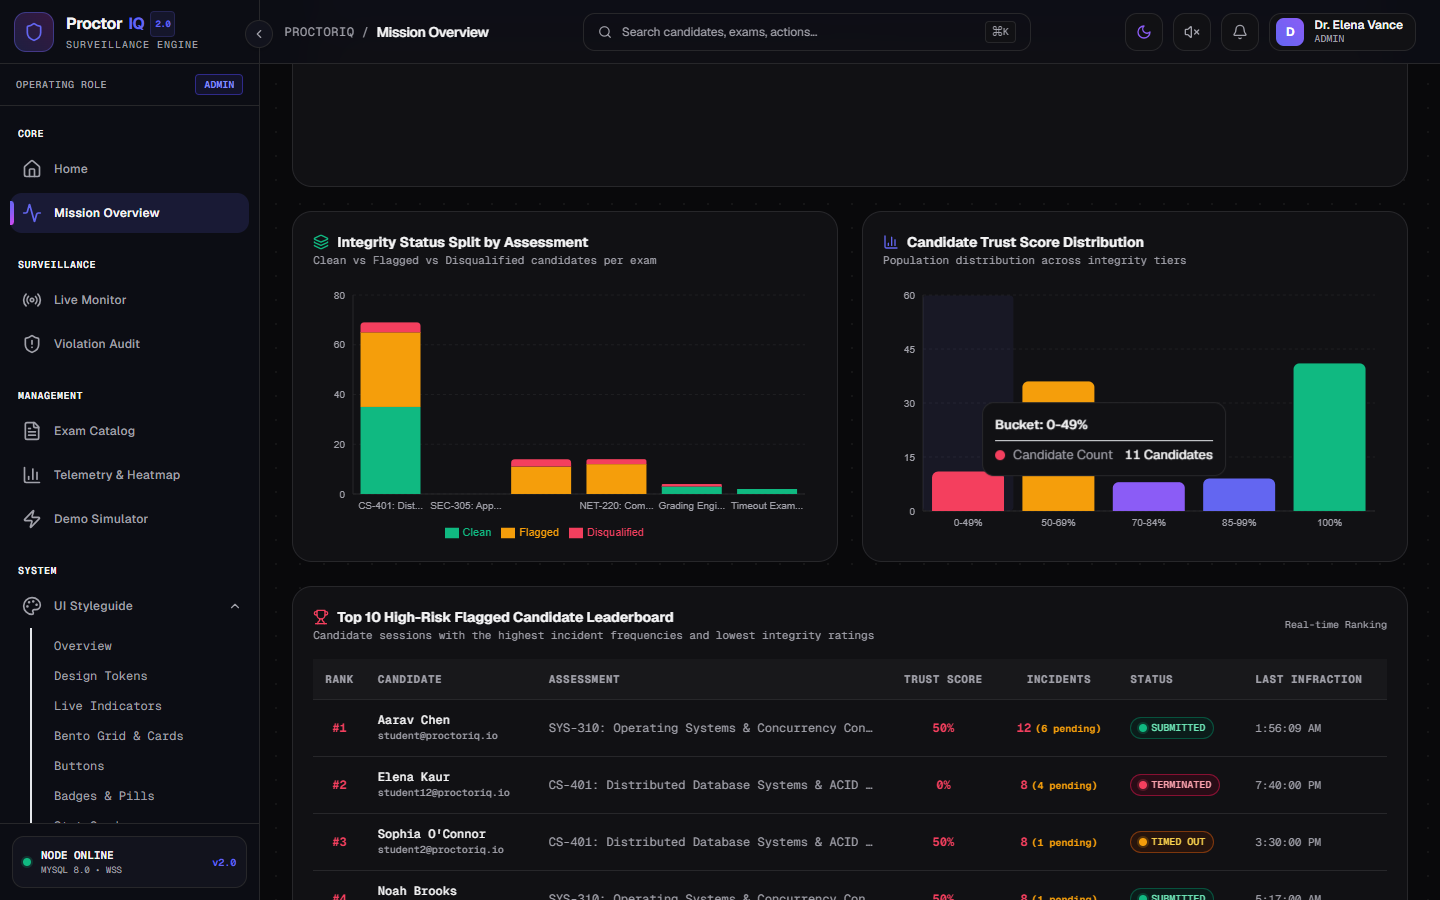
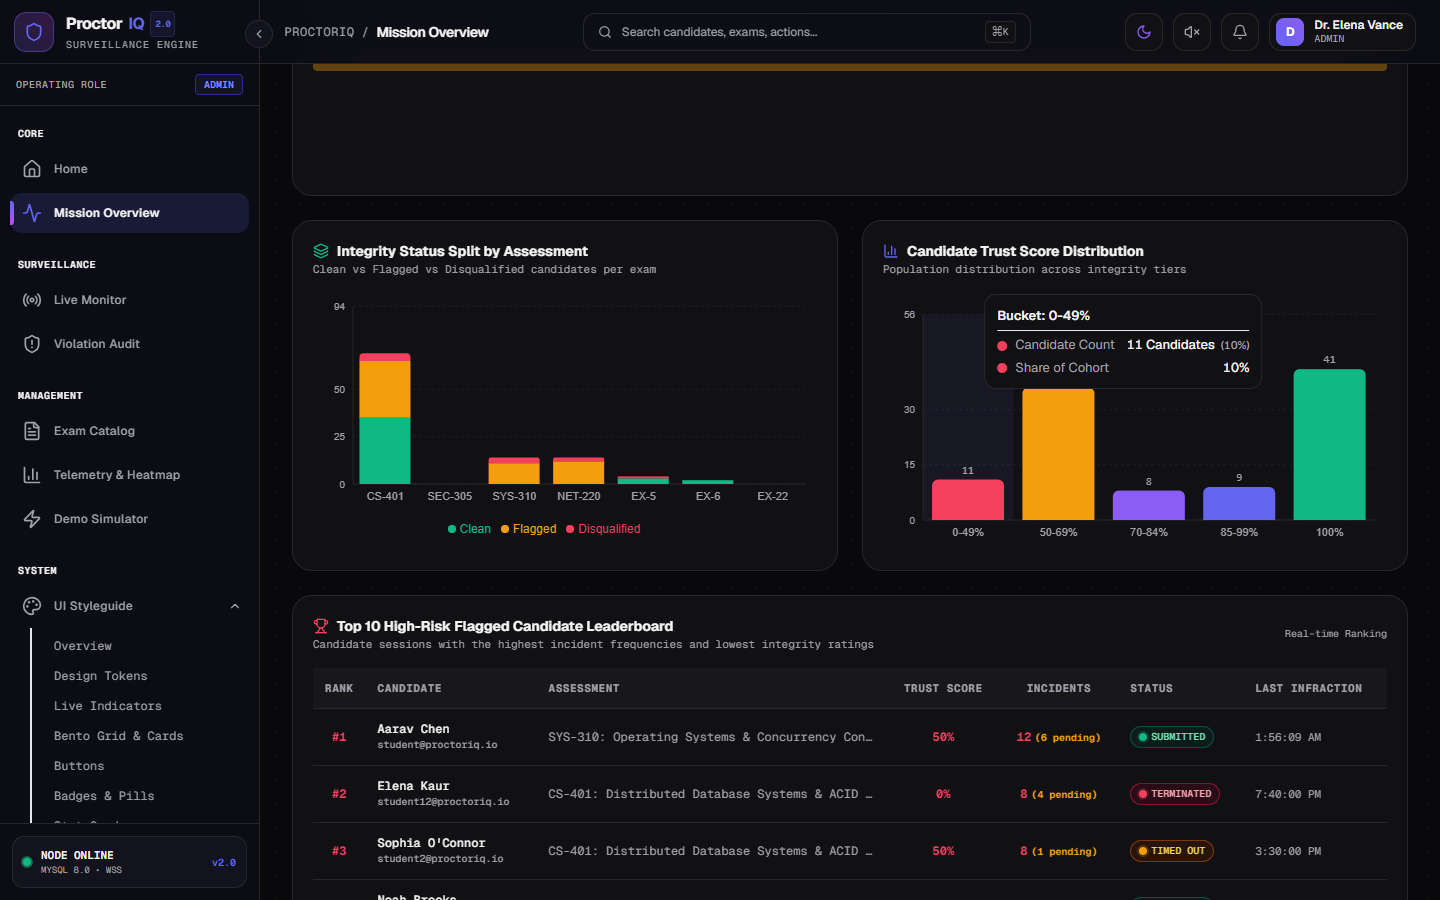
fix(charts): integrity split and histogram

diff --git a/client/src/components/admin/AdminOverviewDashboard.tsx b/client/src/components/admin/AdminOverviewDashboard.tsx
@@ -26,6 +26,7 @@ import {
   ResponsiveContainer,
   Legend,
   CartesianGrid,
+  LabelList,
 } from 'recharts';
 import { StatCard } from '../ui/StatCard';
 import { StatusPill } from '../ui/StatusPill';
@@ -58,6 +59,7 @@ interface DashboardData {
   integritySplit: Array<{
     exam_id: number;
     exam_title: string;
+    subject_code?: string;
     clean_count: number;
     flagged_count: number;
     disqualified_count: number;
@@ -158,6 +160,27 @@ export function AdminOverviewDashboard() {
     cheatingRate: 7.5,
   };
 
+  // Format Integrity Status Split with subject_code fallback
+  const integritySplitData = (data?.integritySplit ?? []).map((item) => {
+    const clean = Number(item.clean_count || 0);
+    const flagged = Number(item.flagged_count || 0);
+    const disqualified = Number(item.disqualified_count || 0);
+    const total = Number(item.total_graded || 0) > 0 ? Number(item.total_graded) : clean + flagged + disqualified;
+    const subjectCode =
+      item.subject_code ||
+      (item.exam_title && item.exam_title.includes(':')
+        ? item.exam_title.split(':')[0].trim()
+        : `EX-${item.exam_id}`);
+    return {
+      ...item,
+      clean_count: clean,
+      flagged_count: flagged,
+      disqualified_count: disqualified,
+      total_candidates: total,
+      subject_code: subjectCode,
+    };
+  });
+
   // Format Trust Score Histogram
   const histogramData = [
     { range: '0-49%', count: Number(data?.trustHistogram?.bucket_0_49 ?? 0), fill: '#F43F5E' },
@@ -166,6 +189,7 @@ export function AdminOverviewDashboard() {
     { range: '85-99%', count: Number(data?.trustHistogram?.bucket_85_99 ?? 0), fill: '#6366F1' },
     { range: '100%', count: Number(data?.trustHistogram?.bucket_100 ?? 0), fill: '#10B981' },
   ];
+  const totalHistogramCandidates = histogramData.reduce((acc, h) => acc + h.count, 0);
 
   // Prepare Heatmap Matrix (24 hours x distinct violation codes)
   const heatmapCodes = Array.from(
@@ -576,31 +600,44 @@ export function AdminOverviewDashboard() {
           <div className="h-64 w-full" aria-hidden="true">
             <ResponsiveContainer width="100%" height="100%">
               <BarChart
-                data={data?.integritySplit ?? []}
-                margin={{ top: 10, right: 12, left: -20, bottom: 0 }}
+                data={integritySplitData}
+                margin={{ top: 12, right: 12, left: -20, bottom: 4 }}
               >
                 <CartesianGrid strokeDasharray="3 3" stroke={chartTheme.gridlines} opacity={0.6} vertical={false} />
                 <XAxis
-                  dataKey="exam_title"
+                  dataKey="subject_code"
+                  stroke={chartTheme.axisLine}
+                  tick={{ fill: chartTheme.axisText, fontSize: 11, fontFamily: 'sans-serif' }}
+                  tickLine={false}
+                  interval={0}
+                />
+                <YAxis
                   stroke={chartTheme.axisLine}
                   tick={{ fill: chartTheme.axisText, fontSize: 10, fontFamily: 'sans-serif' }}
                   tickLine={false}
-                  tickFormatter={(t: string) => t.slice(0, 12) + '...'}
+                  domain={[0, (dataMax: number) => Math.max(10, Math.ceil(dataMax * 1.35))]}
                 />
-                <YAxis stroke={chartTheme.axisLine} tick={{ fill: chartTheme.axisText, fontSize: 10, fontFamily: 'sans-serif' }} tickLine={false} />
                 <Tooltip
                   {...chartTheme.barTooltipProps}
+                  position={{ y: 0 }}
+                  offset={16}
+                  allowEscapeViewBox={{ x: false, y: false }}
                   content={({ active, payload }) => {
                     if (active && payload && payload.length) {
                       const item = payload[0].payload;
+                      const clean = Number(item.clean_count || 0);
+                      const flagged = Number(item.flagged_count || 0);
+                      const disqualified = Number(item.disqualified_count || 0);
+                      const total = Number(item.total_candidates || clean + flagged + disqualified);
                       return (
                         <ChartTooltip
                           active={active}
                           title={item.exam_title}
                           payload={[
-                            { name: 'Clean', value: item.clean_count, color: chartTheme.series.emerald },
-                            { name: 'Flagged', value: item.flagged_count, color: chartTheme.series.amber },
-                            { name: 'Disqualified', value: item.disqualified_count, color: chartTheme.series.rose },
+                            { name: 'Clean', value: clean, color: chartTheme.series.emerald },
+                            { name: 'Flagged', value: flagged, color: chartTheme.series.amber },
+                            { name: 'Disqualified', value: disqualified, color: chartTheme.series.rose },
+                            { name: 'Total Graded', value: total, color: chartTheme.series.indigo },
                           ]}
                         />
                       );
@@ -608,7 +645,17 @@ export function AdminOverviewDashboard() {
                     return null;
                   }}
                 />
-                <Legend wrapperStyle={{ fontSize: 11, fontFamily: 'sans-serif' }} />
+                <Legend
+                  verticalAlign="bottom"
+                  height={32}
+                  iconType="circle"
+                  iconSize={8}
+                  wrapperStyle={{
+                    fontSize: '12px',
+                    fontFamily: 'sans-serif',
+                    paddingTop: '6px',
+                  }}
+                />
                 <Bar dataKey="clean_count" name="Clean" stackId="a" fill={chartTheme.series.emerald} />
                 <Bar dataKey="flagged_count" name="Flagged" stackId="a" fill={chartTheme.series.amber} />
                 <Bar dataKey="disqualified_count" name="Disqualified" stackId="a" fill={chartTheme.series.rose} radius={[4, 4, 0, 0]} />
@@ -616,7 +663,7 @@ export function AdminOverviewDashboard() {
             </ResponsiveContainer>
           </div>
           <div className="sr-only">
-            {(data?.integritySplit ?? []).map((e) => `${e.exam_title}: ${e.clean_count} clean, ${e.flagged_count} flagged, ${e.disqualified_count} disqualified`).join('; ')}
+            {integritySplitData.map((e) => `${e.exam_title} (${e.subject_code}): ${e.clean_count} clean, ${e.flagged_count} flagged, ${e.disqualified_count} disqualified`).join('; ')}
           </div>
         </div>
 
@@ -640,16 +687,32 @@ export function AdminOverviewDashboard() {
             <ResponsiveContainer width="100%" height="100%">
               <BarChart
                 data={histogramData}
-                margin={{ top: 10, right: 12, left: -20, bottom: 0 }}
+                margin={{ top: 20, right: 12, left: -20, bottom: 0 }}
               >
                 <CartesianGrid strokeDasharray="3 3" stroke={chartTheme.gridlines} opacity={0.6} vertical={false} />
-                <XAxis dataKey="range" stroke={chartTheme.axisLine} tick={{ fill: chartTheme.axisText, fontSize: 10, fontFamily: 'sans-serif' }} tickLine={false} />
-                <YAxis stroke={chartTheme.axisLine} tick={{ fill: chartTheme.axisText, fontSize: 10, fontFamily: 'sans-serif' }} tickLine={false} />
+                <XAxis
+                  dataKey="range"
+                  stroke={chartTheme.axisLine}
+                  tick={{ fill: chartTheme.axisText, fontSize: 11, fontFamily: 'sans-serif' }}
+                  tickLine={false}
+                  interval={0}
+                />
+                <YAxis
+                  stroke={chartTheme.axisLine}
+                  tick={{ fill: chartTheme.axisText, fontSize: 10, fontFamily: 'sans-serif' }}
+                  tickLine={false}
+                  domain={[0, (dataMax: number) => Math.max(10, Math.ceil(dataMax * 1.35))]}
+                />
                 <Tooltip
                   {...chartTheme.barTooltipProps}
+                  position={{ y: 0 }}
+                  offset={16}
+                  allowEscapeViewBox={{ x: false, y: false }}
                   content={({ active, payload }) => {
                     if (active && payload && payload.length) {
                       const item = payload[0].payload;
+                      const count = Number(item.count || 0);
+                      const pct = totalHistogramCandidates > 0 ? Math.round((count / totalHistogramCandidates) * 100) : 0;
                       return (
                         <ChartTooltip
                           active={active}
@@ -657,10 +720,17 @@ export function AdminOverviewDashboard() {
                           payload={[
                             {
                               name: 'Candidate Count',
-                              value: `${item.count} Candidates`,
+                              value: `${count} Candidates`,
+                              color: item.fill,
+                              payload: { percent: pct },
+                            },
+                            {
+                              name: 'Share of Cohort',
+                              value: `${pct}%`,
                               color: item.fill,
                             },
                           ]}
+                          showPercent
                         />
                       );
                     }
@@ -668,6 +738,15 @@ export function AdminOverviewDashboard() {
                   }}
                 />
                 <Bar dataKey="count" name="Candidate Count" radius={[6, 6, 0, 0]}>
+                  <LabelList
+                    dataKey="count"
+                    position="top"
+                    fill={chartTheme.axisText}
+                    fontSize={11}
+                    fontFamily="monospace"
+                    offset={6}
+                    formatter={(val: number) => (val > 0 ? val : '')}
+                  />
                   {histogramData.map((entry, idx) => (
                     <Cell key={`hist-${idx}`} fill={entry.fill} />
                   ))}

diff --git a/client/e2e/dataLoadingAndChartsAudit.spec.ts b/client/e2e/dataLoadingAndChartsAudit.spec.ts
@@ -233,6 +233,17 @@ test.describe('Phase 13: Donut Charts, Skeletons & Data Loading Verification (Sc
     const integrityRegion = page.locator('div[aria-label="Integrity status split per assessment stacked bar chart"]');
     await expect(integrityRegion).toBeVisible();
 
+    // Verify X-axis uses subject codes (e.g. NET-220 or CS-401), not truncated titles with "..."
+    await expect(integrityRegion.getByText(/NET-220|CS-401|SEC-305/).first()).toBeVisible();
+    await expect(integrityRegion.getByText(/NET-220:\s*Com\.\.\./)).toHaveCount(0);
+
+    // Verify Legend: sans-serif under chart with swatches
+    const integrityLegend = integrityRegion.locator('.recharts-legend-wrapper');
+    await expect(integrityLegend).toBeVisible();
+    await expect(integrityLegend.getByText('Clean')).toBeVisible();
+    await expect(integrityLegend.getByText('Flagged')).toBeVisible();
+    await expect(integrityLegend.getByText('Disqualified')).toBeVisible();
+
     // Hover over bar to trigger tooltip
     const stackedBar = integrityRegion.locator('.recharts-bar-rectangle').first();
     if (await stackedBar.isVisible()) {
@@ -245,14 +256,28 @@ test.describe('Phase 13: Donut Charts, Skeletons & Data Loading Verification (Sc
       await expect(tooltip).toHaveClass(/font-sans/);
       await expect(tooltip).toHaveClass(/text-\[13px\]/);
 
+      // Verify Clean, Flagged, Disqualified and Total Graded rows
+      await expect(tooltip.getByText('Clean')).toBeVisible();
+      await expect(tooltip.getByText('Flagged')).toBeVisible();
+      await expect(tooltip.getByText('Disqualified')).toBeVisible();
+      await expect(tooltip.getByText('Total Graded')).toBeVisible();
+
       // Verify subtle cursor: no default light-gray #ccc block
       const grayCursor = integrityRegion.locator('.recharts-tooltip-cursor[fill="#ccc"], .recharts-tooltip-cursor[fill="#d0d0d0"]');
       await expect(grayCursor).toHaveCount(0);
+      // Capture screenshot of Integrity Status Split card with active tooltip
+      await integrityRegion.screenshot({
+        path: path.join(screenshotDir, 'integrity_status_split_card.png'),
+      });
     }
 
     // 2. Histogram Bar Chart: Trust Score Distribution
     const histogramRegion = page.locator('div[aria-label="Candidate trust score distribution histogram"]');
     await expect(histogramRegion).toBeVisible();
+
+    // Verify Value Labels rendered above bars
+    const valueLabels = histogramRegion.locator('.recharts-label-list text');
+    await expect(valueLabels.first()).toBeVisible();
 
     const histogramBar = histogramRegion.locator('.recharts-bar-rectangle').first();
     if (await histogramBar.isVisible()) {
@@ -263,10 +288,17 @@ test.describe('Phase 13: Donut Charts, Skeletons & Data Loading Verification (Sc
       await expect(histTooltip).toBeVisible();
       await expect(histTooltip).toHaveClass(/font-sans/);
       await expect(histTooltip).toContainText('Bucket:');
+      await expect(histTooltip.getByText('Candidate Count')).toBeVisible();
+      await expect(histTooltip.getByText('Share of Cohort')).toBeVisible();
 
       // Verify no gray cursor block
       const grayCursorHist = histogramRegion.locator('.recharts-tooltip-cursor[fill="#ccc"], .recharts-tooltip-cursor[fill="#d0d0d0"]');
       await expect(grayCursorHist).toHaveCount(0);
+
+      // Capture screenshot of Candidate Trust Score Histogram card with active tooltip and value labels
+      await histogramRegion.screenshot({
+        path: path.join(screenshotDir, 'candidate_trust_score_card.png'),
+      });
     }
 
     // 3. Take screenshots of charts in Dark Mode

diff --git a/server/src/routes/analytics.routes.ts b/server/src/routes/analytics.routes.ts
@@ -56,6 +56,10 @@ analyticsRouter.get('/dashboard', async (req, res, next) => {
     const integritySplit = await queryRows<RowDataPacket[]>(
       `SELECT e.id AS exam_id,
               e.title AS exam_title,
+              CASE
+                WHEN e.title LIKE '%:%' THEN TRIM(SUBSTRING_INDEX(e.title, ':', 1))
+                ELSE CONCAT('EX-', e.id)
+              END AS subject_code,
               COALESCE(SUM(CASE WHEN r.integrity_status = 'CLEAN' THEN 1 ELSE 0 END), 0) AS clean_count,
               COALESCE(SUM(CASE WHEN r.integrity_status = 'FLAGGED' THEN 1 ELSE 0 END), 0) AS flagged_count,
               COALESCE(SUM(CASE WHEN r.integrity_status = 'DISQUALIFIED' THEN 1 ELSE 0 END), 0) AS disqualified_count,

diff --git a/client/src/components/charts/shared/ChartTooltip.tsx b/client/src/components/charts/shared/ChartTooltip.tsx
@@ -105,7 +105,7 @@ export function ChartTooltip({
     >
       {/* Tooltip Header / Title */}
       {resolvedTitle && (
-        <div className="font-semibold text-foreground text-[13px] font-sans pb-1.5 mb-1.5 border-b border-border/60 truncate">
+        <div className="font-semibold text-foreground text-[13px] font-sans pb-1.5 mb-1.5 border-b border-border/60 leading-snug break-words max-w-full">
           {resolvedTitle}
         </div>
       )}
